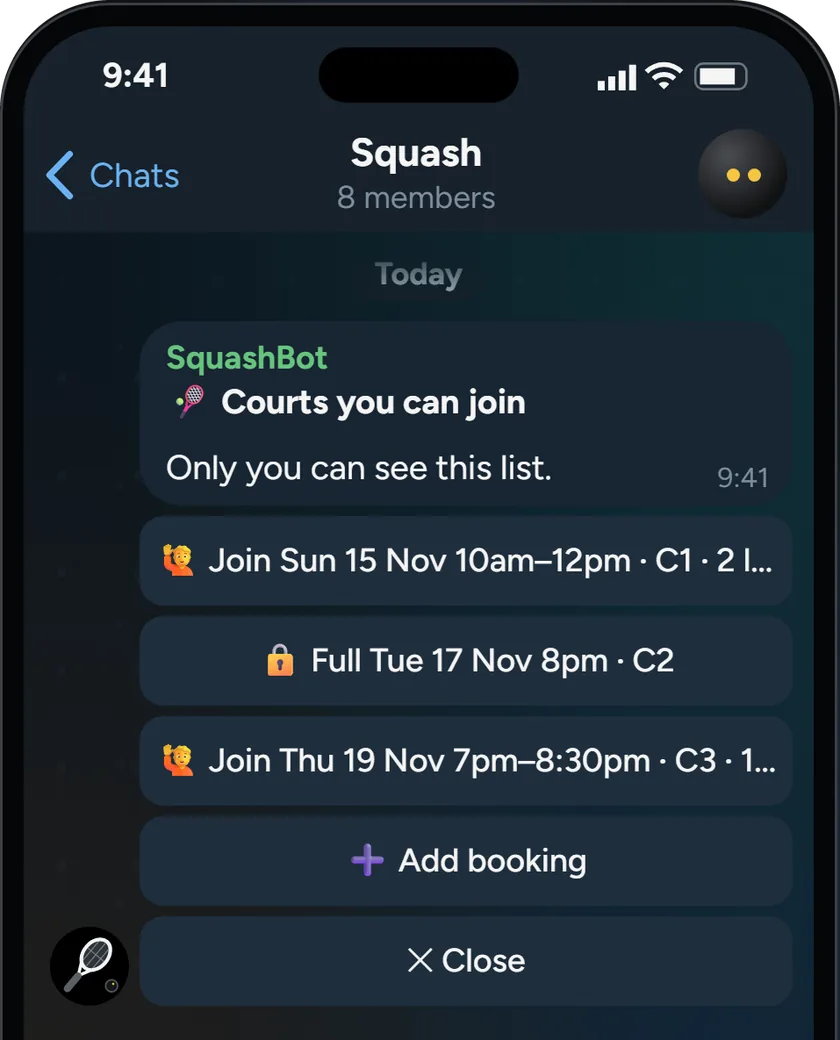
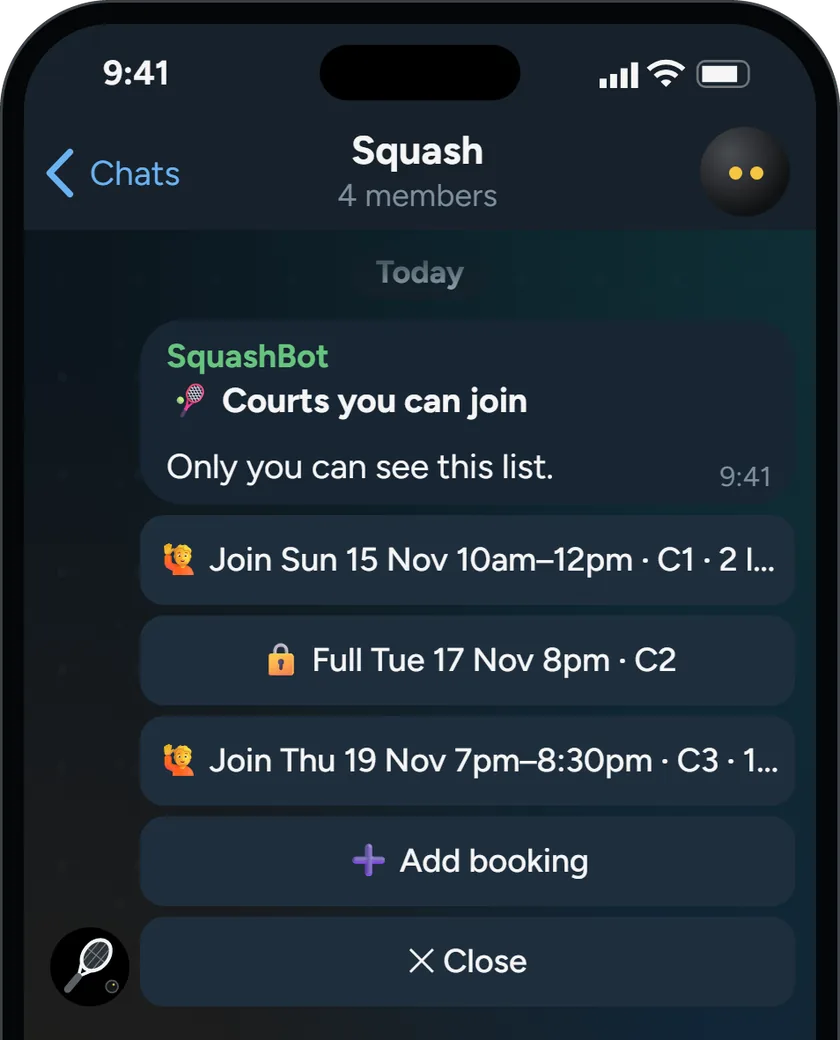
Projects: SquashBot's slots and private-list pictures re-rendered at 4 members, as the demo says

diff --git a/README.md b/README.md
@@ -315,7 +315,7 @@ Fragile behaviour the markup does not reveal. Read [`AGENTS.md`](AGENTS.md) firs
 - Each card's header ends with one proof-of-use line under the name: two real counts in the card's own type, figures brighter than their labels (owner, 12 Nov 2026, "Go with A" after the `lab/projects-proof` mockups of a line, three figures and a usage chart, after research that small real numbers beat none). The counts are real, taken on 12 Nov 2026: SquashBot 4 players and 47 courts booked (distinct `user_id`/`slug` in `ledger`, distinct bookings `added` in `booking_audit`, live `squashbot-eu`; played bookings are deleted from `bookings`), Nag-bot 87 chores done and 462 nags sent (`firings` in state `done`; firings plus their `nag_count` re-nags, live `nagbot-eu`), Finance 97 statements filed (PDFs under the tracker's `statements/`, counted by name only, never opened) and 29 months tracked (Jun 2024 to Nov 2026), Travel Packing 68 items learned and 1 trip packed (`data/packing.json` defaults and lists). Never show invented numbers here; recount read-only with `wrangler d1 execute --remote` when refreshing them.
 - Each card has a working 300 x 560 sample demo (300 x 640 on desktop, nearer a real iPhone's shape now that one shows at a time; owner, 8 Nov 2026), a reset button and three short reasons. No app data files or real household/group details ship, with two exceptions: the owner's partner appears by her Telegram name DodgerBlueee in SquashBot (the visitor books as her) and on Nag-bot's leaderboard beside Nicholas (owner, 9 Nov 2026: "leaderbot for nagbot should be me and DodgerBlueee. its ok to put her name for suashbot too"). Finance keeps Alex as the second insured person, so invented cover gaps are not pinned on a real person. Finance has no Sample label (owner, 9 Nov 2026: "dont put the sample label on finance"), and its invented figures sit well below the owner's real ones: every amount was divided by 2.5 on 9 Nov 2026 (net worth S$194,480), except the three card-testing charges, which show the S$20 rule.
 - Demos look and behave like the real apps (8 Nov 2026 blind fidelity review; check against each app's source before changing one): SquashBot's chat has a squash-court wallpaper (`images/projects/squash-wallpaper.svg`: a calm dark field with a warm maple-floor glow and a glass-wall teal, and only the court's T in faint red; owner, 8 Nov 2026: a busier version with court lines and racket doodles was "quite ugly especially with so many chats", so keep it low-contrast with no pattern; boosted Telegram groups can set a wallpaper for all members), its pinned bar carries the real one-button Mini App link (🎾 Courts on the board, 🧾 Tab on the tab), the Mini App has the real Courts | Tab switch, Join/Leave/Full and the "You owe" card, typed bookings come from a group admin (the bot ignores members' free text), and replies accept short court names. The chat holds only what the real group shows (owner, 9 Nov 2026: "too many spam messages ... too much noise, hard to see value"): the pinned `📌 Court schedule` (bookings.js `renderBoard`: one line per court, `<b>C4</b>`, full courts struck through, one 🎾 Courts button; the bot's `↳ booked by` line is left out and the demo uses Courts 1–4 only, so "Which court?" is one row of four, and the chips have no label line above them (owner, 9 Nov 2026: "looks more cluttered than the acutal one. dont have the booked by dodgerblueee. Maybe just show 4 courts instead of 5 too")), edited in place, and the single "🙋 N slots left on Court X" post (announcements.js) for the nearest open court, deleted and reposted when a nearer court is booked. The confirm form is the booker's own; once saved it goes and the schedule and that post change instead, and a Join answers with a toast. The tab lives in the second pin and the Mini App, not in the chat. What the chat cannot show sits under the demo in a Paprika-style "More features." row (owner, 9 Nov 2026: "if we cannot squeeze all the features ... we can do it like paprika"): three cards, each a title and the top of a phone screen rendered from the demo's own markup and CSS in the bot's own words, saved as `images/projects/<app>-<name>.webp`. Swapped on 9 Nov 2026 after the owner asked to "scrutinize the value of the features": SquashBot shows the confirm card's overlap warning (wizard.js "⚠ This overlaps an existing booking:" and "⚠ Add anyway", `squashbot-conflict`), peak and holiday pricing in the Tab's history (pricing.js: 5pm–7pm crossing 6pm, Deepavali observed at the peak rate, a weekday afternoon off-peak; `squashbot-pricing`) and the Courts Mini App (`squashbot-mini`), replacing a game-day reminder any calendar gives and a tab card that repeated the Splitwise reason. Packing's first card is the real app's own Edit item dialog for Socks (0.8 per night, 3 to 7, "→ 4 for 4 nights"; `packing-rule`), rendered from a copy of the app holding only data/seed.json, laid out at 375px and drawn at 0.8 under the demo's status bar; it replaced the Defaults page. Nag-bot keeps its three; Finance's are below. Desktop puts the row across both columns under the card; under 1280px it scrolls sideways. Re-render them after changing the demo's look. Nag-bot's chat opens on the pinned 🐾 Chores board itself (owner, 9 Nov 2026: "nagbot doesnt show the pinned chore list - and everything is just done ... doesnt show the cute mocha and latte stickers"; dashboard.js `choreListHtml`: a lead line, then emoji, bold chore and italic cadence per chore, under one 🐾 Chores Mini App button), and the board, the pinned bar and the Mini App draw from one status list, so Done, snooze, delete and Undo redraw all three; tapping the pinned bar scrolls to the board and flashes it. Each nag comes with a cut-out sticker from the live LatteMocha2 pack (owner, 9 Nov 2026: the square photos in stickers-data.js were "not as cute as the actual one"; the pack is backed up in nag-bot's `assets/stickers/` with each sticker's cat tag), and the line names the cat on it as nag.js `NAG_LINES` does: a wide-eyed Mocha with "Mocha is watching you. Unblinking. 👀" (`images/projects/nag-sticker-nag.webp`); Done takes that sticker down and sends a heart-eyed Latte beside the receipt ("Latte purrs approvingly.", `nag-sticker-done.webp`; both paths stay literal in projects.js, because the build publishes only images whose full path it can find in the built files), Delete and Hide take it down, and Undo and Not done send none. Dates use the bot's fmtWhen ("in 2 days · Tue 9:00 PM"), the snooze cap refuses on Snooze itself, and Undo after a delete edits the log to "Restored". The chat scrolls with a hidden scrollbar and opens at the newest message. Finance has five phone tabs of the owner's copy (Overview, Wealth, Insurance, Home, Activity; Split left out at the owner's request, 8 Nov 2026; no Travel, as in the tracker's CLAUDE.md; owner, 8 Nov 2026: "too few tabs. it doesnt show the depth of the actual"), each a short page in the app's own words: Wealth's Income | Net worth | Investments switch (income outlook and long-range forecast, the net-worth chart, IBKR's "✓ numbers tally"), Insurance one insured person per sub-tab with "Where the cover falls short", Home's register with Needs info / Covered / No active cover filters and warranty dates, and Activity's Transactions | Games. The Overview keeps its source-check line ("186 rows checked against their statements") and Needs attention first; the flagged charges open the app's own check drawer ("Medium priority check", the risk_checks.py reason, "This is an anomaly, not a fraud verdict.") with "I recognize this" disabled because a paired phone is a read-only copy. Hide amounts masks the net worth, the statement tiles and all of Wealth, as the app's privacy.js does (premiums, bills and transactions stay readable). Finance is laid out at 333px and drawn at 0.9 inside the 300px screen (status and home bars kept full size), so it keeps the real app's proportions and its own sizes: 28px titles, 15px rows, the 52px header on the page's green top glow, the segmented control's lighter #4a4a46 choice, 20px tile figures, Home's filter pills (scrolling sideways as in the app) and frosted day headers (owner, 9 Nov 2026: "the finance app mockup doesnt seem as good as the actual app"). It uses the app's system font stack (Segoe UI Variable on Windows, SF on Apple), not Figtree. Activity matches the app's phone list (owner: "where are the logos and the polish like the actual app? E.g for grab"): "26 CARD TRANSACTIONS · S$1,049 spent", charges as −S$, and merchant logos from the tracker's own `app/assets/merchant-logos`, in one 102px-a-cell sprite, `images/projects/finance-logos.webp`, indexed by `LOGO` in `projects.js` (new cells go at the end so indexes hold). Every merchant is one the tracker has a logo for, with no letter tiles (owner, 9 Nov 2026: "remove all the vendors with no logo. use existing logos and vendors from the actual finance app"): Watami, Starbucks, Ya Kun and McDonald's; SimplyGo (the transit icon), Grab and TADA; Trip.com, KKday and Klook; GrabFood and Foodpanda; Steam, HoYoverse and Kuro Games; and the three flagged card-testing charges G2G, Xsolla and ZeusX, game-trading sites the tracker knows. Some sources are 32–64px favicons, so they are soft when enlarged, as in the app. Home lists the owner's own brands with the pictures his tracker shows (owner, 9 Nov 2026: "home brand u can use my actual brands and just reuse the logo"): FortyTwo's logo on the app's #f0f1f2 logo tile, and Hitachi, Daikin, Rinnai and Bosch product pictures on its dark tile, 48px rows with a hairline edge, from the tracker's `manual/assets/home`; they are the sprite's last five cells. Prices and warranty dates stay invented. Packing's list head is the real app's boarding pass as its phone layout draws it (packing's DESIGN.md "Boarding pass", 9 Nov 2026: band, passenger line, SIN and the destination code over city names with the plane on its line, the date chip and nights stepper, and a stub strip with the code tag and the countdown); Normal trip flies SIN to CTU 12 days out and Extended trip SIN to HRB 40 days out, both the same offset as home so no local time shows, the dates computed from today (`data-day`) so the countdown stays true, and the two trips' words swapped by `data-key` on the demo root in CSS rather than script, since the page has about 10 bytes left under its ceiling; the progress line carries the app's plane marker (hidden at zero and at full, as in the app); the stub's second line is the app's optional destination forecast in its wording ("Chengdu 8–16 °C · rain on 2 of 5 days", invented, as the demo cannot fetch weather); when every item is ticked the app's passport-style PACKED stamp lands on the stub (`.pk-pseal`, shown by `:has()` on the full progress bar, so no script). Packing's tabs carry the list names and ✎ Defaults, Hide packed and Last call survive switching lists, and the demo opens on a trip already under way (7 of 20 packed) so the per-category counts and bars read at a glance (owner: "Looks pretty lame that its empty"); the app has no dashboard by design (PRODUCT.md).
-- More features, as rethought on 9 Nov 2026 (these replace the per-app lists in the next bullet where they differ; renders in `lab/projects-dark/tools/feat-squash2.cjs`, `finance/feat-new.cjs` and `packing/feat2.cjs`): SquashBot "Courts and the tab, one tap away" (`squashbot-mini`), "Empty slots fill without asking around" (`squashbot-slots`: the demo's own slots-left post alone with its Join button) and "The group chat stays free of bot spam" (`squashbot-private`: bookings.js `joinPickerView`, sent as a Telegram ephemeral message, "Only you can see this list."); the double-booking card was "not really a strong feature" and peak pricing repeated "Court fees split themselves". Nag-bot "Chores become a weekly game", "Nested chores clear in one tap" (owner: "just use the word nested chores") and "No flood of nags after a holiday". Finance "Double charges and card fees caught" (owner: "double charge is not that rare", "waive card fees"; `finance-alerts`: Coming up with a double charge, a S$196.20 card membership fee to waive, dated by its charge so red with Resolve, and a declared Spotify renewal; the summary hint is left out so nothing truncates; since 14 Nov 2026 the rows show dates only, without "32 days ago" or "in 5 days", which went wrong as the calendar moved), "Insurance coverage at a glance" and "Retirement savings that cut tax" (a line break after "savings" keeps one word off the first line). Packing "A saved list for each kind of trip" (owner's idea; `packing-kinds`: historyDialog() with Beach weekend, Ski week and Work trip, since each saved trip reloads both lists and Defaults), "Plan on any device" (owner's wording; `packing-share`: renderSharePopover() while sharing, "Scan on your phone", a real QR of an invented Wi-Fi link, "Same Wi-Fi only. The phone can tick and edit, and both screens stay in step.") and "Send what's left as one picture". Retired images were deleted: `squashbot-conflict`, `squashbot-pricing`, `packing-rule` and `packing-history`.
+- More features, as rethought on 9 Nov 2026 (these replace the per-app lists in the next bullet where they differ; renders in `lab/projects-dark/tools/feat-squash2.cjs`, `finance/feat-new.cjs` and `packing/feat2.cjs`): SquashBot "Courts and the tab, one tap away" (`squashbot-mini`), "Empty slots fill without asking around" (`squashbot-slots`: the demo's own slots-left post alone with its Join button) and "The group chat stays free of bot spam" (`squashbot-private`: bookings.js `joinPickerView`, sent as a Telegram ephemeral message, "Only you can see this list."; both re-rendered on 17 Nov 2026 because their chat header still said 8 members where the demo says 4: the same script run against a local build with the clock fixed to Fri 13 Nov 2026 (`page.clock.setFixedTime`), so only the member count changed); the double-booking card was "not really a strong feature" and peak pricing repeated "Court fees split themselves". Nag-bot "Chores become a weekly game", "Nested chores clear in one tap" (owner: "just use the word nested chores") and "No flood of nags after a holiday". Finance "Double charges and card fees caught" (owner: "double charge is not that rare", "waive card fees"; `finance-alerts`: Coming up with a double charge, a S$196.20 card membership fee to waive, dated by its charge so red with Resolve, and a declared Spotify renewal; the summary hint is left out so nothing truncates; since 14 Nov 2026 the rows show dates only, without "32 days ago" or "in 5 days", which went wrong as the calendar moved), "Insurance coverage at a glance" and "Retirement savings that cut tax" (a line break after "savings" keeps one word off the first line). Packing "A saved list for each kind of trip" (owner's idea; `packing-kinds`: historyDialog() with Beach weekend, Ski week and Work trip, since each saved trip reloads both lists and Defaults), "Plan on any device" (owner's wording; `packing-share`: renderSharePopover() while sharing, "Scan on your phone", a real QR of an invented Wi-Fi link, "Same Wi-Fi only. The phone can tick and edit, and both screens stay in step.") and "Send what's left as one picture". Retired images were deleted: `squashbot-conflict`, `squashbot-pricing`, `packing-rule` and `packing-history`.
 - Every app card ends with a "More features." row (owner, 9 Nov 2026: "Yes, all three"): three strengths that are not already its reasons and that the chat or first screen cannot show, each a title of six words or fewer that explains the feature alone, with no description line (owner, 9 Nov 2026: "adding a description for the features makes it not as slick. the first line should already explain it"), checked against the real app's source, and an image rendered from the live demo (DPR 3, reduced motion, phone un-scaled, demo elements hidden in the render script when the point would fall below the crop, never drawn or edited by hand), cut by `featmask.py` to the top of the phone with transparent corners and saved as 840x1040 WebP under `images/projects/<app>-<name>.webp` (owner, 9 Nov 2026: "the images also look a bit low res"). Since 17 Nov 2026 (owner, "do all", `more-features-large`) the pictures fill their card instead of stopping at 280px: from 1280px three cards sit in the column with pictures of about 337px at 1366-1440 (400px at most); under 1280px the row scrolls sideways, 400px cards on small laptops and, on phones and tablets, cards 84% wide (at most 320px) with the picture capped at 290px so it stays smaller than the demo phone and the next card peeks; while the row scrolls, a page counter ("1 / 3" on a phone, "1 / 2" where two cards fit) and previous/next arrows that move a page sit centred on the heading (projects.js). Phones keep their CSS snap; small laptops have none. SquashBot: one reminder (owner: two near-identical reminders were "uncessary"), the Mini App's Tab with what you owe and each court behind it (owner: the chat's monthly notice "breaks into so many - unlike the actual tab on web app"), and the Courts Mini App. Nag-bot: the weekly leaderboard (stats.js), chores that reset together (nesting.js; "the shake" avoids the brand name in the real chore), vacation mode (`/pause all 14`, handlers.js). Finance: the three a layman feels most (owner, 9 Nov 2026, after a six-card version went live: "6 feature cards below is too much. choose the top 3 most impactful to a layman"): "No double charge goes unnoticed" (money lost), "No guessing if we're insured enough" (where the cover falls short, insurance-tab.js) and "Retirement savings that cut tax" (money saved). The warranty register, broker gains that tally and the post-import recap were cut as the less universal. `finance-alerts` is Coming up's Charges to check (app.js `recurringAlertCopy`: a double charge and a missing charge in red, a price change not; oldest first; the tax moves are left out of that render so the summary is the alerts-only "3 charges to check" and nothing truncates; review: a S$2 streaming rise leading the list read as penny-pinching, so a broadband rise and a missing insurance premium stand beside the double charge). `finance-tax` is the Tax moves panel (tax-moves.js `moveDetail`, figures from its `plan()` on an invented YA2026 notice: employment S$78,000, reliefs S$18,100, the full S$15,300 SRS top-up and S$8,000 of own CPF room, so about S$1,071 and S$441 cut and tax before rebate S$1,943 to S$431; review: figures scaled to the demo's take-home cut S$156 and S$123 and read as pocket change, so this card is not tied to the Income tab's figures; the phone's back bar, employment and chargeable income are left out so the title and the tax line sit where they should). Amounts keep cents, as the tracker shows single payments. `lab/projects-dark/tools/finance/feat-new.cjs` renders both, injecting each panel into the demo phone with the tracker's phone styles in a render-only stylesheet; subscription names and prices are invented. Packing: one master list in Defaults (each row's `ruleText()` rule and list chips), what's left as one picture (`packing-picture.webp`: the app's own Copy as image output, `renderListImage`, run on a sample-data copy of the app with seed data, Normal trip 41 of 50 with Hide packed on, now opening with the app's boarding-pass header; since 9 Nov 2026 it is composed into the previous image's phone frame under its status bar rather than screenshotted, `lab/projects-dark/tools/packing/picture41.cjs` exports it from the sample copy and `compose.py` beside it does the composing, both local like `feat.cjs`; it replaced the cold-trip Extended card on 9 Nov 2026, as the demo's Extended tab shows that), and Save and reload trips (`historyDialog()`, two sample entries in the app's exact formats); the Defaults page and the Trip history dialog exist only in the real app, so the render script injects them into the demo phone with every word and rule from packing's `app.js` and `data/seed.json`. The 9 Nov 2026 screenshot review set the bar for all twelve (owner: "squashbot still has a lot of spam, the web app doesnt take the full screen"): Mini Apps full screen, no pinned bars, sample chips or unrelated messages in a frame, and the feature's proof inside the crop. Type follows paprikaapp.com's measurements: headings 600 with -0.03em tracking and `text-wrap: balance`, 24px card titles, 15px card text in `#9da2a9`, 24px card padding and radius on `#1b1c1f` with a `#2d2f34` border, 18px gaps; reasons and feature cards are titles alone (9 Nov 2026). Wording and layout pass (owner, 9 Nov 2026: "review all the wording on the project page ... look out for general spacing, alightment, font size"; two independent reviews, measured): small text uses two sizes, 14px for demo captions, Start over (Archivo 600), stack lines, rail subtitles and the Finance tile labels, and 12px only for the uppercase kind line (it had computed to 11px on phones until 14 Nov 2026; under 360px wide it drops its letter-spacing and the icon is 46px so it stays on one line); app names are 3rem; on desktop the right column starts at the top of the grid (rows `0fr auto 1fr auto`) so the heading never hops between tabs, and the demo hint keeps to one line from 1180px (it may run on under the words column, which is clear at that height); every companion sits 2rem under the stack line and the lock screens caption underneath like the laptop; on phones the gap above and below each divider is even and the More features titles are 1.3rem in 84%-wide cards so each wraps to two lines.
 - More features keeps a phone on every card, on desktop too (owner, 13 Nov 2026: "lets revert to the version with all phones. i prefer it"). Tried and reverted on 12-13 Nov 2026: slices of each demo cut to the proving part on cards in the app's screen colour (4d9a7b3), framed close-ups in gradient wells after Copilot Money's feature cards (9a63c74), and one phone per row among close-ups (lab only). Don't re-propose close-ups or slices in place of the phones; the comparison lab (git-ignored) is `lab/project-banners`.
 - Demos run entirely in memory. A guided preview starts once at 70% visibility after 500 ms of settled scrolling (a demo taller than the window, as on a landscape phone, counts by the share of the window it fills; before 14 Nov 2026 a 390px-tall landscape screen never started one), one demo at a time, and plays on while 40% of the phone shows (90% until 10 Nov 2026, then 85% to keep that stretch of scroll as long once phones drew the demo larger; 13 Nov 2026 review: at 85% the stretch was 279 px at 390x664, so a thumb flick of 62% of a screen jumped over one preview in three, and a 160 px glance at the reasons stopped one halfway. At 70% the stretch is 444 px there, and a flick reader saw all four at 375, 390 and 430 wide). Taps and keys stop it; swipes re-arm it. Reduced motion skips previews. Once a preview ends, and until the reader touches that demo, its next action pulses three times (SquashBot's second sample, which asks for the court, Nag-bot's Chores button, Finance's red Needs attention badge, Packing's More nights). While the reader is using a demo that is on screen, no other preview starts for 8 s. Each preview must keep its result on screen (8 Nov 2026 review rounds): SquashBot scrolls the confirm form into view and holds it before Add booking; Nag-bot presses Done by about 1.7 s, holds the receipt and celebration sticker for about 2.5 s (until 10 Nov 2026 Done came at 2.6 s and the sticker had 1 s), then scrolls up to the board and flashes the litter box's new "in 42 days" line, by which time the "Purrs" toast has gone; Nag-bot's chat toasts sit over the pinned bar, because under it they covered the board line that had just changed, and a message the bot edits (Done, a snooze, Not done) arrives with the new-message fade instead of swapping in one frame; Finance scrubs the chart, opens Needs attention, then a flagged charge's check, holds it about 3 s, taps Done and the back arrow, and rests on Overview, where the red badge pulses at once (owner, 12 Nov 2026: "Finance ending"; the 10 Nov blind read marked it down for ending on the red "Read-only copy" box and a half-empty list, so the box is hidden while a preview plays. Legibility pass (owner, 13 Nov 2026: "Build A", after the `lab/projects-proof` Finance fixes mockups won two blind reads, 7.5/6.5/7 and 7/6.5/7 against today's 5/7.5/7.5 and 5/5/6): drawn at 0.9 instead of 0.8 (an iPhone's 375px at 0.8 put 42% of its text under 10px; now none is, smallest 10.2px on a 390px phone), 11.5px tab labels, a 12.5px chart axis, a 44px chart so Overview ends on a whole card, Home's pills fading at the right edge, and the check drawer sized to its content over the dimmed list (it was a tall, mostly empty sheet); while a preview plays the read-only box is removed, not just hidden, so the drawer's top lands under the second flagged charge. Drawing at 1.0 lost (8/5.5/6: zoomed in, lines wrap), as did richer companion tiles (6/6/6 against today's 8/7/7). A tour of Insurance, Home and Activity was tried the same day and lost a blind A/B to the card-testing story, 6/7/6 against 8/7/7: it read as a slideshow. The final ending beat the old one in a fresh blind A/B, 7/8/6 against 6/6/6, legibility/polish/impressive; the rail thumbnail `images/projects/finance.mp4` was re-recorded from it, 11.2 s, and again with its poster after the 13 Nov legibility pass); Wealth is skipped because its Net worth view repeats the chart just scrubbed); Packing folds Basics and Hygiene, scrolls its list until the nights stepper sits at the top with Clothes under it, and adds two nights so Underwear and Sleep Shirt visibly recount; it then unfolds Basics, turns on Last call, scrolls until the progress line, Last call and its note share the screen, ticks eSIM in view ("6 essentials" becomes "5"), taps Show everything and scrolls back to the top, so More nights works at once (10 Nov 2026 review: since the boarding pass went in, the nights changed with no count on screen and eSIM was ticked below the edge). Any icon or name in a Packing row ticks it, not only the box. SquashBot's "now" is 9:41am on the coming Friday (today, on a Friday), so no date in it is ever past (until 10 Nov 2026 it was fixed at Fri 13 Nov 2026); `pDate`'s weekday maths assumes that Friday, the Tab's history line is three days before it and the lock screen shows it, while the More features images and the rail thumbnail keep the dates they were rendered with. Nag-bot and Finance follow the calendar too (13 Nov 2026; until then fixed at Sun 8 Nov and an Oct 2026 statement). Nag-bot's "now" is 7:45 PM on the latest Sunday (the chores' weekdays assume a Sunday), so its board week, done log and snooze dates move with it. Finance's statements run to the end of last month: the chart's twelve months, Key spending, the flagged charge's day, the warranty dates (same months either side) and the Wealth years all follow it, a charge day past the month's end shows on its last day, and take-home pay so far is S$2,686 a month to date, so December's total stays under the S$32,240 floor. SquashBot's toasts sit just above the message bar, over the sample chips, so the schedule and the slots post they announce stay clear. Non-booking text in SquashBot gets a toast rather than silence, and a sample chip leaves the row once sent until Start over (owner, 9 Nov 2026: sending "tmr c4 2100" again only booked the same court twice). On phones and tablets the caption row leads with the app's icon, name and kind (owner, 17 Nov 2026, `projects-name-pinned`; no sticky bar), with Start over at the right end of that line and the hint below it, so the name travels with its demo; the kind wraps under the name where both do not fit (Travel Packing at 360px). On phones the row sits above the phone, on tablets under it; desktop shows the hint alone. Start over restores that demo only. Use flat scoped CSS for iOS 16; keep each phone and its reset visible together on phones. Phones (480px and down) draw the demo as large as the handset allows (10 Nov 2026 review: it was 264px wide on every phone, with Finance's text at 7 to 9px): `--pf` on `.app-stage` is the smaller of (100vw - 32px) / 318 and (100svh - 110px) / 578 (96px until the caption row gained the name, 17 Nov 2026), kept between 0.88 and 1.2, so a 390px phone shows it at about 0.98 and a 430px one at about 1.12 with the caption and Start over still on the same screen. It is sized from the small viewport so nothing jumps when Safari's bar hides, and the division is `tan(atan2())` inside `@supports`, fed by two registered lengths (`--pw`, `--ph`) so both of its arguments are px, since older engines got mixed units wrong; browsers without it keep 0.88, and a wrong answer can only fall back to 0.88 too. The halo behind the phone scales with `--pf`. On touch screens (`pointer: coarse`) a demo's own lists do not scroll until the reader has tapped it (`data-user`), so a swipe that starts on a phone scrolls the page (measured: 12 swipes to pass the four demos with the thumb on them, 8 in the gutter); the previews still scroll them by script.
